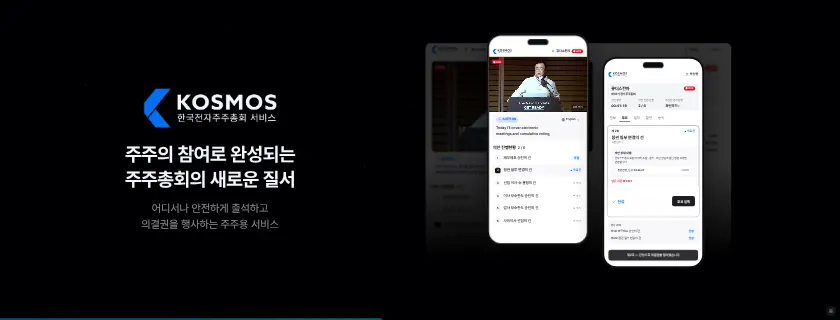
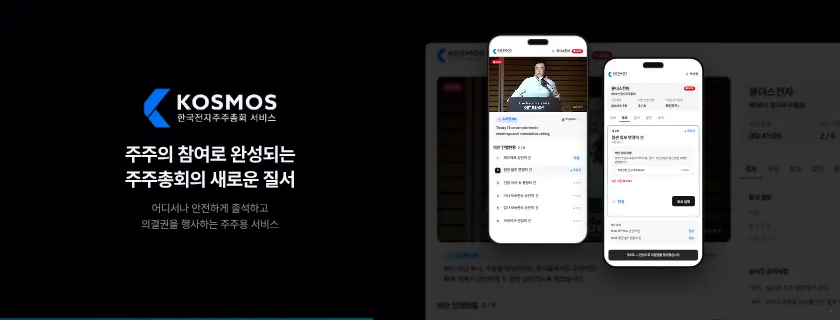
세션4 K18b 뒤 웹 화면: 아래 페더 삭제, 확대해 오른쪽 · 아래 크롭
Claude-Session: https://claude.ai/code/session_01Mn7NmyW5iujmmHnaRBFKBZ

diff --git a/sw.js b/sw.js
@@ -1,5 +1,5 @@
 /* 오프라인 캐시 — 온라인 주소(https)로 한 번 열면 모든 파일을 저장해 두고, 통신이 끊겨도 저장본으로 동작합니다. */
-const V='seminar-screen-11272100';
+const V='seminar-screen-11272103';
 const FILES=["./","assets/KakaoBigSans-Bold.woff2","assets/KakaoBigSans-Regular.woff2","assets/KakaoSmallSans-Bold.woff2","assets/KakaoSmallSans-Light.woff2","assets/KakaoSmallSans-Regular.woff2","assets/OrbitControls.js","assets/PretendardVariable.woff2","assets/attendees.js","assets/blue-bloom.html","assets/cong1.webp","assets/cong2.webp","assets/ds-bg.html","assets/four-states.html","assets/intro.mp4","assets/irk-white.svg","assets/irk-wordmark-white.svg","assets/kism-intro.mp4","assets/kism-white.svg","assets/ksmp-white.svg","assets/panel.js","assets/qa-online.js","assets/s2/img1.png","assets/s2/img2.png","assets/s2/img3.png","assets/s2/img4.png","assets/s4/aws.webp","assets/s4/callcenter.webp","assets/s4/chair-1.webp","assets/s4/chair-2.webp","assets/s4/chair-3.webp","assets/s4/conexus-word.webp","assets/s4/ctl-1.webp","assets/s4/cx-1.webp","assets/s4/cx-2.webp","assets/s4/cx-3.webp","assets/s4/cx-flow.mp4","assets/s4/cx-pop1.webp","assets/s4/cx-pop2.webp","assets/s4/cx-vote.mp4","assets/s4/cx-vote.webp","assets/s4/cxs-1.webp","assets/s4/insurance.webp","assets/s4/isms-t.webp","assets/s4/isms.webp","assets/s4/ismsp-t.webp","assets/s4/ismsp.webp","assets/s4/kosmos-white.png","assets/s4/ks-1.webp","assets/s4/ks-2.webp","assets/s4/ks-3.webp","assets/s4/ks-4.webp","assets/s4/ks-5.webp","assets/s4/ks-video.webp","assets/s4/live-1.webp","assets/s4/live-2.webp","assets/s4/live-3.webp","assets/s4/live-4.webp","assets/s4/live-5.webp","assets/s4/live-6.webp","assets/s4/live-7.webp","assets/s4/live-8.webp","assets/s4/logos.webp","assets/s4/ocr-1.webp","assets/s4/ocr-2.webp","assets/s4/ocr-3.webp","assets/s4/ocr-4.webp","assets/s4/ocr-5.webp","assets/s4/on-1.png","assets/s4/on-2.webp","assets/s4/on-3.webp","assets/s4/on-4.png","assets/s4/on-5.webp","assets/s4/onboard-1.webp","assets/s4/onboard-2.webp","assets/s4/privacy.webp","assets/s4/proxymity.svg","assets/s4/rehearsal.webp","assets/s4/streaming-korea.webp","assets/s4/tab-1.webp","assets/s4/tab-2.webp","assets/s4/team.webp","assets/sched.js","assets/screen-title-2.svg","assets/screen-title-b-text.svg","assets/screen-title-b.svg","assets/seat-banners.js","assets/seat-fascia.js","assets/seat-screen.js","assets/seatmap.js","assets/service-intro.mp4","assets/speaker-scott.webp","assets/speaker1-1.webp","assets/speaker2.webp","assets/speaker3-1.webp","assets/supabase.min.js","assets/three.min.js","assets/title-logos.svg","control.html","index-fs.html","index.html","kism.html","lobby/cuts.html","lobby/index.html","mc.html","session2.html","session4.html","sw.js","tools/s2_build.py","tools/s2_shell.html","assets/s3/p01.webp","assets/s3/p02.webp","assets/s3/p03.webp","assets/s3/p04.webp","assets/s3/p05.webp","assets/s3/p06.webp","assets/s3/p07.webp","assets/s3/p08.webp","assets/s3/p09.webp","assets/s3/p10.webp","assets/s3/p11.webp","assets/s3/p12.webp","assets/s3/p13.webp","assets/s3/p14.webp","assets/s3/p15.webp","assets/s3/p16.webp","assets/s3/p17.webp","assets/s3/p18.webp","assets/s3/p19.webp","assets/s3/p20.webp","assets/s3/p21.webp","assets/s3/p22.webp","assets/s3/p23.webp","assets/kism/photo-main.webp","assets/kism/photo-2.webp","assets/kism/photo-3.webp","assets/kism/photo-4.webp","assets/sound/countdown-tick.mp3","assets/sound/sfx-s3-part.mp3","assets/sound/sfx-s4-reveal.mp3","assets/sound/sfx-s5-proxymity.mp3","assets/sound/sfx-s6-chime.mp3","assets/sound/sfx-s7-close.mp3","assets/sound/opening-hit.mp3","assets/s4/kosmos-color.svg","assets/s4/ke-logo.png","assets/s4/ke-live.mp4","assets/kism/kwon-talk.mp4","assets/kism/manual-book.webp","kism-open.html","kism_16x9.html","led.html","assets/s4/cx-ops.mp4","assets/s4/cx-ops.webp","assets/s4/agent-app.mp4","assets/s4/kosmos-web.webp","assets/s4/ks-attend.mp4","assets/s4/ks-attend.webp","assets/s4/ks-switch.mp4","assets/s4/ks-switch.webp","assets/s4/ks-notify.mp4","assets/s4/ks-notify.webp","assets/s4/ks-vote.mp4","assets/s4/ks-vote.webp","assets/s4/ks-qna.mp4","assets/s4/ks-qna.webp","assets/s4/pc-map.webp","assets/s4/pc-map.mp4","assets/s4/agent-app.webp","assets/s4/k24b-bg.webp","session0.html","face.html","assets/face-link.js","assets/kism/photo-main-cut.webp","assets/s4/cx-chair.mp4","assets/s4/cx-chair.webp","assets/s4/cx-test.mp4","assets/s4/cx-test.webp","assets/s4/onboard-mgr.webp","assets/s4/proxymity-logo.png","assets/s4/k21-bg.webp","assets/s4/kosmos-admin-white.svg","assets/kism-intro-16x9.mp4","assets/seat-guide.html","assets/s4/app-icon-agent.svg","assets/ds-main.mp4","assets/s4/k2-agency.webp","assets/s4/k2-support.webp","assets/s4/thumbs/K00.webp","assets/s4/thumbs/K01.webp","assets/s4/thumbs/K02.webp","assets/s4/thumbs/K03.webp","assets/s4/thumbs/K04.webp","assets/s4/thumbs/K05.webp","assets/s4/thumbs/K06.webp","assets/s4/thumbs/K07.webp","assets/s4/thumbs/K08.webp","assets/s4/thumbs/K09.webp","assets/s4/thumbs/K10.webp","assets/s4/thumbs/K11.webp","assets/s4/thumbs/K12.webp","assets/s4/thumbs/K13.webp","assets/s4/thumbs/K14.webp","assets/s4/thumbs/K15.webp","assets/s4/thumbs/K16.webp","assets/s4/thumbs/K17.webp","assets/s4/thumbs/K18a.webp","assets/s4/thumbs/K18b.webp","assets/s4/thumbs/K18c.webp","assets/s4/thumbs/K19.webp","assets/s4/thumbs/K19b.webp","assets/s4/thumbs/K19c.webp","assets/s4/thumbs/K20.webp","assets/s4/thumbs/K21.webp","assets/s4/thumbs/K21b.webp","assets/s4/thumbs/K22s.webp","assets/s4/thumbs/K23.webp","assets/s4/thumbs/K23b.webp","assets/s4/thumbs/K24a.webp","assets/s4/thumbs/K24b.webp","assets/s4/thumbs/K24c.webp","assets/s4/thumbs/K25.webp","assets/s4/thumbs/K25b.webp","assets/s4/thumbs/K26.webp","assets/s4/thumbs/K27.webp","assets/s4/thumbs/K28a.webp","assets/s4/thumbs/K28b.webp","assets/s4/thumbs/K28c.webp","assets/s4/thumbs/K28d.webp","assets/s4/thumbs/K29.webp","assets/s4/thumbs/K30.webp","assets/s4/thumbs/K09b.webp","assets/s4/thumbs/K28e.webp","assets/s4/thumbs/K28p.webp","assets/s4/onsite-vote.mp4","assets/s4/onsite-vote.webp","assets/s4/rehearsal-site.webp","assets/qr-ask.svg"];
 self.addEventListener('install',e=>{e.waitUntil(caches.open(V).then(c=>c.addAll(FILES)).then(()=>self.skipWaiting()));});
 self.addEventListener('activate',e=>{e.waitUntil(caches.keys().then(ks=>Promise.all(ks.filter(k=>k!==V).map(k=>caches.delete(k)))).then(()=>self.clients.claim()));});

diff --git a/session4.html b/session4.html
@@ -2003,6 +2003,8 @@ html.r169 #K27 .sec-c{--k27y:560px}
 .s.cur#K27 .shade{animation:k27s .1s linear 2.2s both}
 @keyframes k27p{from{opacity:0;translate:0 80px}to{opacity:1;translate:0 0}}
 @keyframes k27s{from{opacity:0}to{opacity:1}}
+/* 11/27 21:02 K18b 뒤 KOSMOS 웹 화면: 아래 페더 마스크 삭제, 크게 키워 오른쪽 · 아래가 화면 밖으로 잘리게 */
+#K18b .k18web{width:2600px!important;height:1700px!important;border-radius:32px 0 0 0!important;-webkit-mask-image:none!important;mask-image:none!important;background-position:left top!important;background-size:125% auto!important}
 /* ═════ 16:9 버전 (?a=16x9, 11/27) ═════
    ※ 빔프로젝터(led.html?a=16x9) M7-7이 이 모드를 씀. 장을 고치면 ?a=16x9로도 확인하고, 21:8 원본 위치를 바꾸면 아래 html.r169 #Kxx 규칙도 같이 맞출 것.
       R169Z(묶음 축소) 장은 내용 범위를 자동으로 재서 배치하므로 대부분 따라감.
